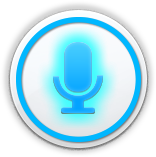
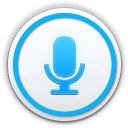
plugin:audio_helper adjust gui

diff --git a/resources/desktop/plugin/audio_helper/audio_helper.css b/resources/desktop/plugin/audio_helper/audio_helper.css
@@ -1,38 +1,47 @@
 .AudioHelper {
-    width: 156px;
-    height: 156px;
+    width: 128px;
+    height: 128px;
+    background: rgba(0, 100, 0, 0.8);
 }
-.AudioHelper .running {
-    position: absolute;
-    opacity: 0;
-}
-
-.Lines {
-    position: relative;
-    top: 52px;
-    left: 66px;
-    width: 24px;
-    height: 40px;
-}
-
-.line {
-    margin: 2px auto;
-    background: white;
-    height: 2px;
-    -webkit-transition: background 0.5s ease-in;
-}
-
 
 @-webkit-keyframes running {
     0% { -webkit-transform:rotate(0deg); }
    100% { -webkit-transform:rotate(360deg); }
-}
-@-webkit-keyframes blink {
-    0% { background: rgba(0, 0, 0, 0); }
-    100% { background: rgba(255,255,255, 1); }
 }
 
 .AudioHelper .running:hover {
     opacity: 1;
     -webkit-animation: running 1.5s infinite linear;
 }
+.AudioHelper .running {
+    position: absolute;
+    opacity: 0;
+}
+@-webkit-keyframes breathing {
+    0% { opacity: 0.0; }
+    50% { opacity: 1; }
+   100% { opacity: 0.0; }
+}
+
+.AudioHelper .light {
+    z-index: -100;
+    position: absolute;
+    opacity: 1.0;
+    -webkit-animation: breathing 1.5s infinite ease-out;
+}
+
+.Lines {
+    position: relative;
+    top: 39px;
+    left: 56px;
+    width: 17px;
+    height: 34px;
+}
+
+.line {
+    margin: 2px auto;
+    background: rgba(0, 0, 0, 0);
+    height: 1px;
+    -webkit-transition: background 0.5s ease-in;
+}
+
